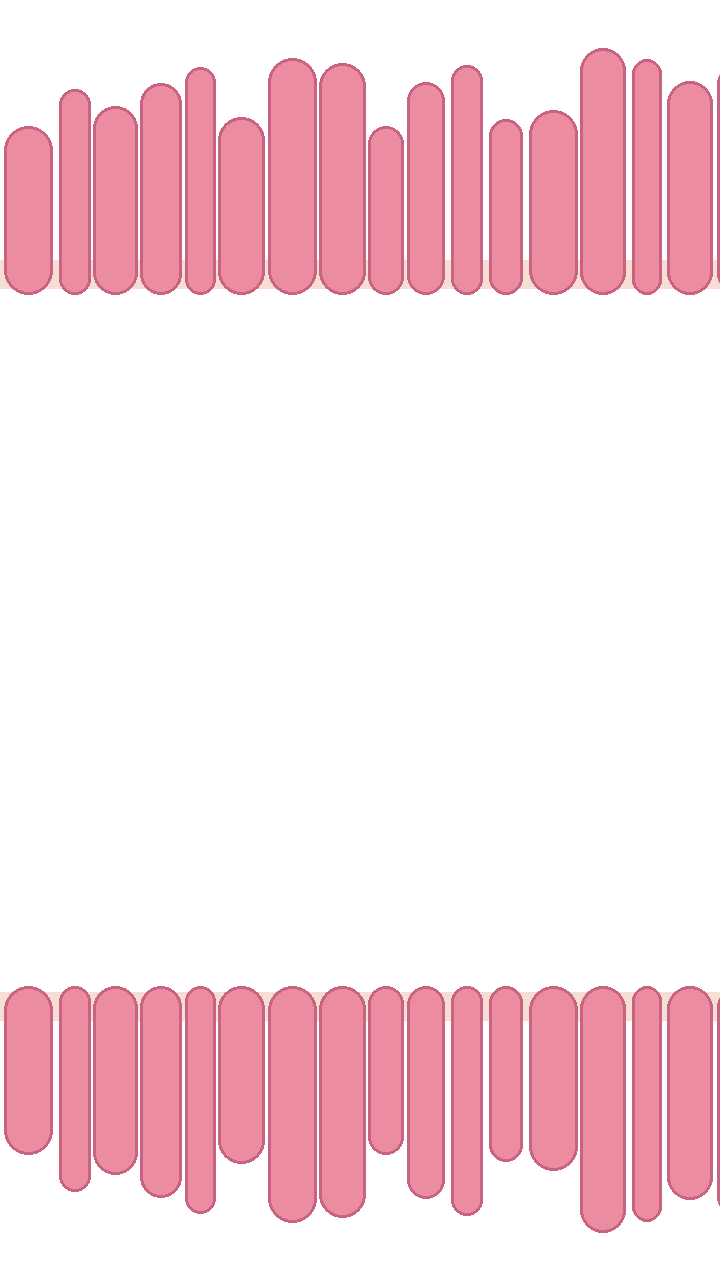
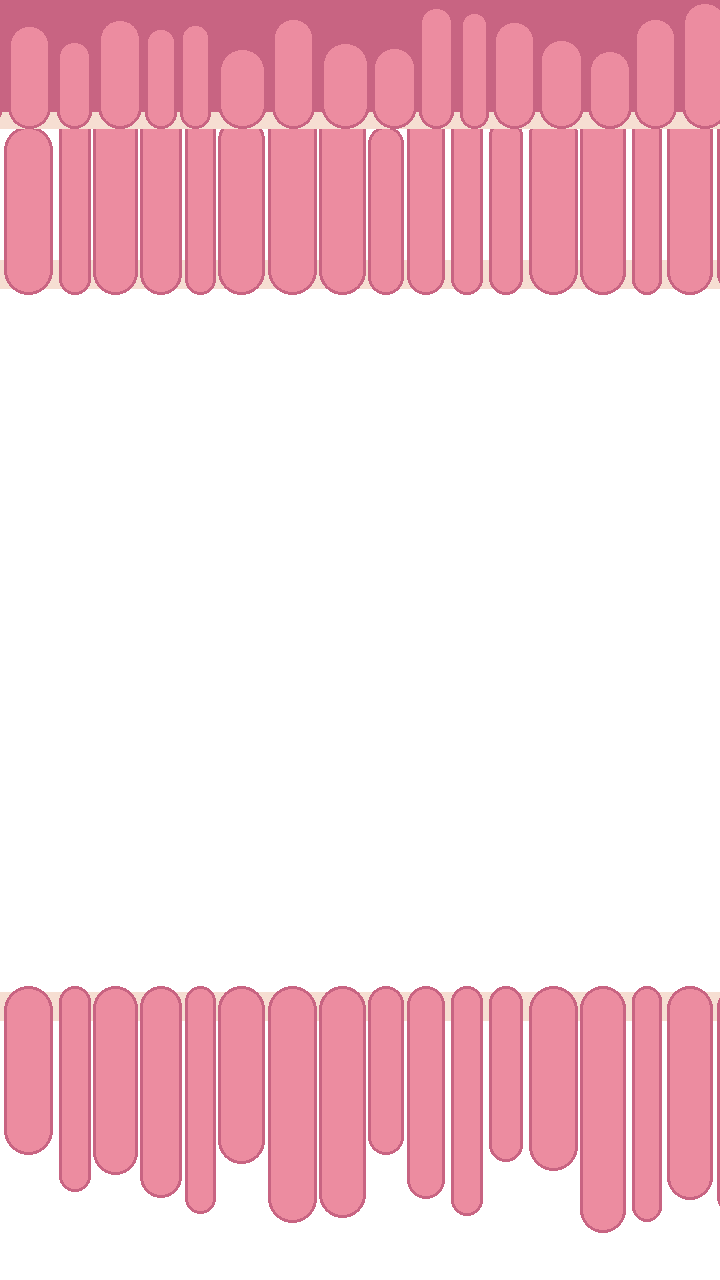
feat(ui): white fill under the focus ring; ceiling villi row mirrors the ground
The controller focus ring draws a faint translucent white fill
(focus.fillAlpha 0.18) under its pink outline so it lifts off the villi.

villi.png now carries a baked ceiling strip along its top edge
(make_placeholders.py ceiling_strip: the ground strip's vertical mirror, a
dark band with a cream line and a front row of fingers, same seed), so both
ends of the gut show a back fringe and a front row. It is background only:
pipes and the poop draw over it, the ceiling kill line and the gap margin are
unchanged. pipe.png and ground.png regenerate byte-identical.

Changed region(s): [[0.0, 0.0, 1.0, 0.125]]

diff --git a/src/ui/focus.js b/src/ui/focus.js
@@ -4,7 +4,8 @@ const PINK = 0xe85e96;
 const DEPTH = 1000; // above everything else in the owning scene
 
 /**
- * The controller focus ring: a pulsing pink rounded outline around one of a
+ * The controller focus ring: a pulsing pink rounded outline over a faint white
+ * fill (focus.fillAlpha, so it lifts off the villi) around one of a
  * scene's buttons, walked by the d-pad / sticks and pressed by A. Items are
  * { id, obj | box, activate, visible?, scrolled? }: obj is any Game Object
  * with getBounds() (a tray circle, a Text link, a zone), box a centred layout
@@ -54,6 +55,8 @@ export function createFocus(scene, t, { items = [], scrolled = null, onVertical 
     const g = item.scrolled && ringScrolled ? ringScrolled : ring;
     // Drawn around the Graphics' own origin so the pulse scales about the centre.
     g.setPosition(r.x + r.width / 2, r.y + r.height / 2);
+    g.fillStyle(0xffffff, t.focus.fillAlpha);
+    g.fillRoundedRect(-r.width / 2, -r.height / 2, r.width, r.height, r.radius);
     g.lineStyle(t.focus.ringWidth, PINK, 1);
     g.strokeRoundedRect(-r.width / 2, -r.height / 2, r.width, r.height, r.radius);
     ring.setVisible(g === ring);

diff --git a/tests/tuning.test.js b/tests/tuning.test.js
@@ -49,6 +49,10 @@ test('the field: a phone portrait at minimum, up to 2:1, the player in the left 
   assert.ok(T.prefill.leadGrowth >= 0 && T.prefill.leadGrowth <= 0.5, `prefill.leadGrowth ${T.prefill.leadGrowth}`);
 });
 
+test('the focus ring fill is faint enough to leave the button art visible', () => {
+  assert.ok(T.focus.fillAlpha >= 0 && T.focus.fillAlpha <= 0.5, `focus.fillAlpha ${T.focus.fillAlpha}`);
+});
+
 test('fartVolume is audible but not clipping', () => {
   assert.ok(T.fartVolume >= 0.2 && T.fartVolume <= 1, `fartVolume ${T.fartVolume}`);
   assert.ok(T.levelUpVolume >= 0.2 && T.levelUpVolume <= 1, `levelUpVolume ${T.levelUpVolume}`);

diff --git a/src/config.js b/src/config.js
@@ -232,6 +232,7 @@ export const TUNING = {
     ringPad: 10, // px the ring sits outside the focused button's bounds
     ringWidth: 4, // px stroke
     ringRadius: 14, // px corner radius
+    fillAlpha: 0.18, // 0–1 translucent white inside the ring so it lifts off the villi (0 = outline only)
     pulseScale: 1.06, // × ring scale at the top of the pulse
     pulseMs: 500, // ms per pulse (one way)
     scrollStepPx: 160, // px a d-pad up / down scrolls About and How to play

diff --git a/tools/make_placeholders.py b/tools/make_placeholders.py
@@ -85,9 +85,20 @@ def villi_band(d, x0, x1, y_base, height, up, rng):
         x += w + rng.randint(3, 8)
 
 
+def ceiling_strip(d, w, strip_h=128, cream_h=16):
+    """The ground strip's vertical mirror, baked into the overlay's top edge: a dark band,
+    a cream line along its lower edge, and fingers growing up from it (same seed as the
+    ground so the two rows read as one gut wall). Background only: pipes and the poop draw
+    over it, so the ceiling kill line and the gap margin stay as they are."""
+    d.rectangle((0, 0, w, strip_h), fill=VILLI_DARK)
+    d.rectangle((0, strip_h - cream_h, w, strip_h), fill=CREAM)
+    villi_band(d, -40, w + 40, strip_h - 20, 108, up=True, rng=random.Random(11))
+
+
 def villi(path, w=720, h=1280):
-    """Transparent overlay: cream bands + villi fringes only. The level colour
-    shows through everywhere else (the game draws a solid rectangle under it)."""
+    """Transparent overlay: cream bands + villi fringes, plus the ceiling strip (the
+    ground's mirror) along the top edge. The level colour shows through everywhere
+    else (the game draws a solid rectangle under it)."""
     img = Image.new("RGBA", (w, h), (0, 0, 0, 0))
     d = ImageDraw.Draw(img)
     # Fringes ~260px (~20% each end) so the open lumen stays majority clear
@@ -100,6 +111,8 @@ def villi(path, w=720, h=1280):
     # villi fringes (drawn wider than the image so the horizontal tile edge matches)
     villi_band(d, -40, w + 40, top_base, fringe, up=True, rng=random.Random(7))
     villi_band(d, -40, w + 40, bot_base, fringe, up=False, rng=random.Random(7))
+    # Front row at the top, in front of the fringe, as ground.png is in front of the bottom one.
+    ceiling_strip(d, w)
     img.save(path)
 
 

diff --git a/assets/README.md b/assets/README.md
@@ -25,7 +25,7 @@ The player and items are Michael's drawings. Put a new source PNG in `assets/src
 | `mystery.png` | 3072x384 | Mystery box (from level 3; opens into a random reward) | Spritesheet: the 8 frames of the spinning GIF side by side, 384x384 each, all cut on one square so the cube never jitters; played at 70 ms per frame (`mystery.frameMs`). Same hitbox as the items. Bobs between pipe pairs at half fiber's speed. Source: `assets/src/MysteryBox.gif`. |
 | `mystery-icon.png` | 384x384 | Mystery box icon (game-over summary and How to play) | Static three-quarter view; never spawned, so no hitbox. Same crop rules as the items. Source: `assets/src/MysteryBox_Icon.png`. |
 | `pipe.png` | 128x1280 | One intestinal-fold pipe | Cap at the **top**; the game flips it vertically for the bottom pipe. Height must be **at least the playfield height** (1280) so a flipped top pipe always reaches the ceiling when the gap sits low. |
-| `villi.png` | 720x1280 | Villi overlay over the level colour | Exact playfield size, **transparent** except the cream bands and villi fringes top and bottom. Scrolls slowly (parallax 0.25); must tile **horizontally** (left edge continues into right edge). See "Background layers" below. |
+| `villi.png` | 720x1280 | Villi overlay over the level colour | Exact playfield size, **transparent** except the cream bands and villi fringes top and bottom and the ceiling strip (top 128 px: dark band, cream line, a front row of fingers, mirroring `ground.png`; background only, pipes and the poop draw over it). Scrolls slowly (parallax 0.25); must tile **horizontally** (left edge continues into right edge). See "Background layers" below. |
 | `ground.png` | 720x128 | Scrolling floor strip | Must tile horizontally. Drawn at the bottom of the screen on top of every background layer. |
 | `icon-192.png` | 192x192 | Home-screen icon (Android / manifest) and the tab favicon | From `assets/src/FlappyPoopAppArt.png` on its own tan: the drawing is scaled to the central 80 % (`ICON_SAFE_FRAC`) so a circular or squircle mask never clips the fart cloud. Referenced by `manifest.webmanifest` (`purpose: any maskable`) and `index.html`. |
 | `icon-512.png` | 512x512 | Home-screen icon (large) | Same cut as `icon-192.png`. |
@@ -46,7 +46,7 @@ Audio files live in `assets/sfx/`. Every file there must be named in `CREDITS.md
 
 The background is a **solid colour per level** (`LEVEL_COLORS` in `src/config.js`, cycling, softened by `levels.whiteBlend`, crossfaded between levels at the break) with one or more **transparent PNG overlay layers** on top. Each layer is a `tileSprite` listed in `BACKGROUND.layers` (`key`, `parallax`) and scrolls at its own fraction of the pipe speed (villi 0.25). Pipes, items, the poop and the ground draw above all layers; the ground strip (bottom 128 px) hides that part of every layer.
 
-- `villi.png`: 720×1280, PNG with alpha, exactly the portrait playfield (it is scaled to the screen height, never tiled vertically). On a wider desktop field the same 720 px copy repeats sideways (tile scale `FIELD.minWidth / width`), as does `ground.png`, so a seam at the wrap would show there first. Transparent wherever the level colour should show; opaque only where the villi / mucosa are. Must tile horizontally: the right edge continues into the left (the placeholder draws 40 px past each side and wraps). A 2× version (1440×2560) is fine; keep each side ≤ 4096 px (phone WebGL limit); the scene scales by `GAME_WIDTH / frame.width`. Keep the fringes clear of the middle ~50 % of the height where the gaps sit.
+- `villi.png`: 720×1280, PNG with alpha, exactly the portrait playfield (it is scaled to the screen height, never tiled vertically). On a wider desktop field the same 720 px copy repeats sideways (tile scale `FIELD.minWidth / width`), as does `ground.png`, so a seam at the wrap would show there first. Transparent wherever the level colour should show; opaque only where the villi / mucosa are and in the ceiling strip along the top edge (the ground's mirror, so both ends show a back fringe and a front row; it is background, so the ceiling kill line and the gap margin are unchanged). Must tile horizontally: the right edge continues into the left (the placeholder draws 40 px past each side and wraps). A 2× version (1440×2560) is fine; keep each side ≤ 4096 px (phone WebGL limit); the scene scales by `GAME_WIDTH / frame.width`. Keep the fringes clear of the middle ~50 % of the height where the gaps sit.
 - The same villi show over every level colour (Set2: tan, teal, periwinkle, lime, yellow, light blue). Keep villi away from those hues; `tests/levels.test.js` rejects a level colour that comes within reach of the villi pink or the cream bands, so a redrawn villi colour means re-checking that test's constants.
 - Adding a layer: a PNG with the same rules, a row in `BACKGROUND.layers`, a `load.image` in `src/scenes/Boot.js`, and a row in the table above. Nothing in `Play.js` changes.
 - The finish line is a generated texture (`src/ui/finish.js`). A drawn one later: `finish.png`, 64×1280, alpha, scrolls with the pipes.

diff --git a/AGENTS.md b/AGENTS.md
@@ -124,8 +124,8 @@ src/
                             default Invincible). TUNING.gamepad = the pad's
                             standard-mapping button indices (A / B / Y / RT /
                             Menu / d-pad), RT threshold, stick deadzone + repeat;
-                            TUNING.focus = the focus ring's geometry, pulse and
-                            the overlay scroll step.
+                            TUNING.focus = the focus ring's geometry, fill alpha,
+                            pulse and the overlay scroll step.
                             Pure data, Node-safe.
   logic.js                  Pure functions, NO Phaser/DOM: field (fieldWidth,
                             uiColumn, poopX, pipeLeadPx, pipeLead, prefillPairs,
@@ -206,7 +206,8 @@ src/
   ui/
     focus.js                createFocus(scene, t, { items, scrolled, onVertical }):
                             the controller focus ring, a pulsing pink rounded
-                            outline (Graphics, depth 1000) around one item of a
+                            outline over a faint white fill (focus.fillAlpha;
+                            Graphics, depth 1000) around one item of a
                             scene; items are { id, obj | box, activate, visible?,
                             scrolled? }, pressable(id, obj) wraps a Game Object
                             whose own pointerdown is the press. Shows only in
@@ -629,8 +630,10 @@ tests/                      node --test, zero deps. Each file is self-describing
 
 tools/
   make_placeholders.py      Regenerates pipe / villi / ground only (icons moved to
-                            process_art.py). Must not overwrite poop.png. Run only
-                            when you intend to.
+                            process_art.py); villi.png carries a baked ceiling
+                            strip (ceiling_strip: the ground's mirror along the
+                            top edge, background only). Must not overwrite
+                            poop.png. Run only when you intend to.
   process_art.py            Crops assets/src/ drawings into 384x384 contract PNGs
                             (drawn at spriteDisplayScale 0.25 → 96 logical px);
                             the poop set (alive / dead / stink1 / stink2 / falling /
